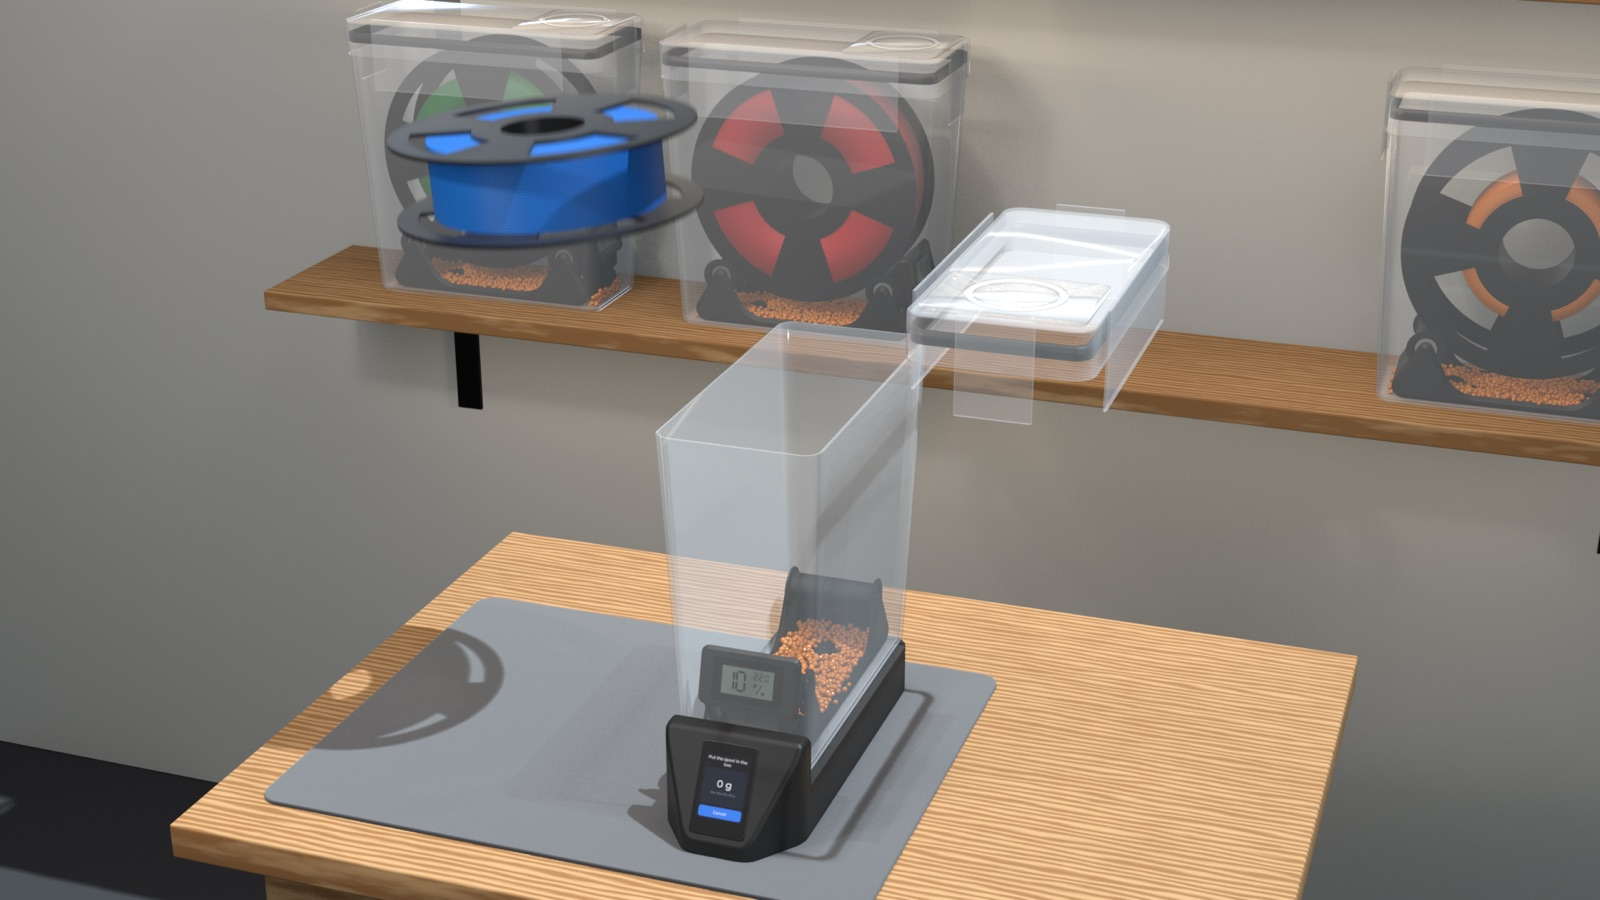
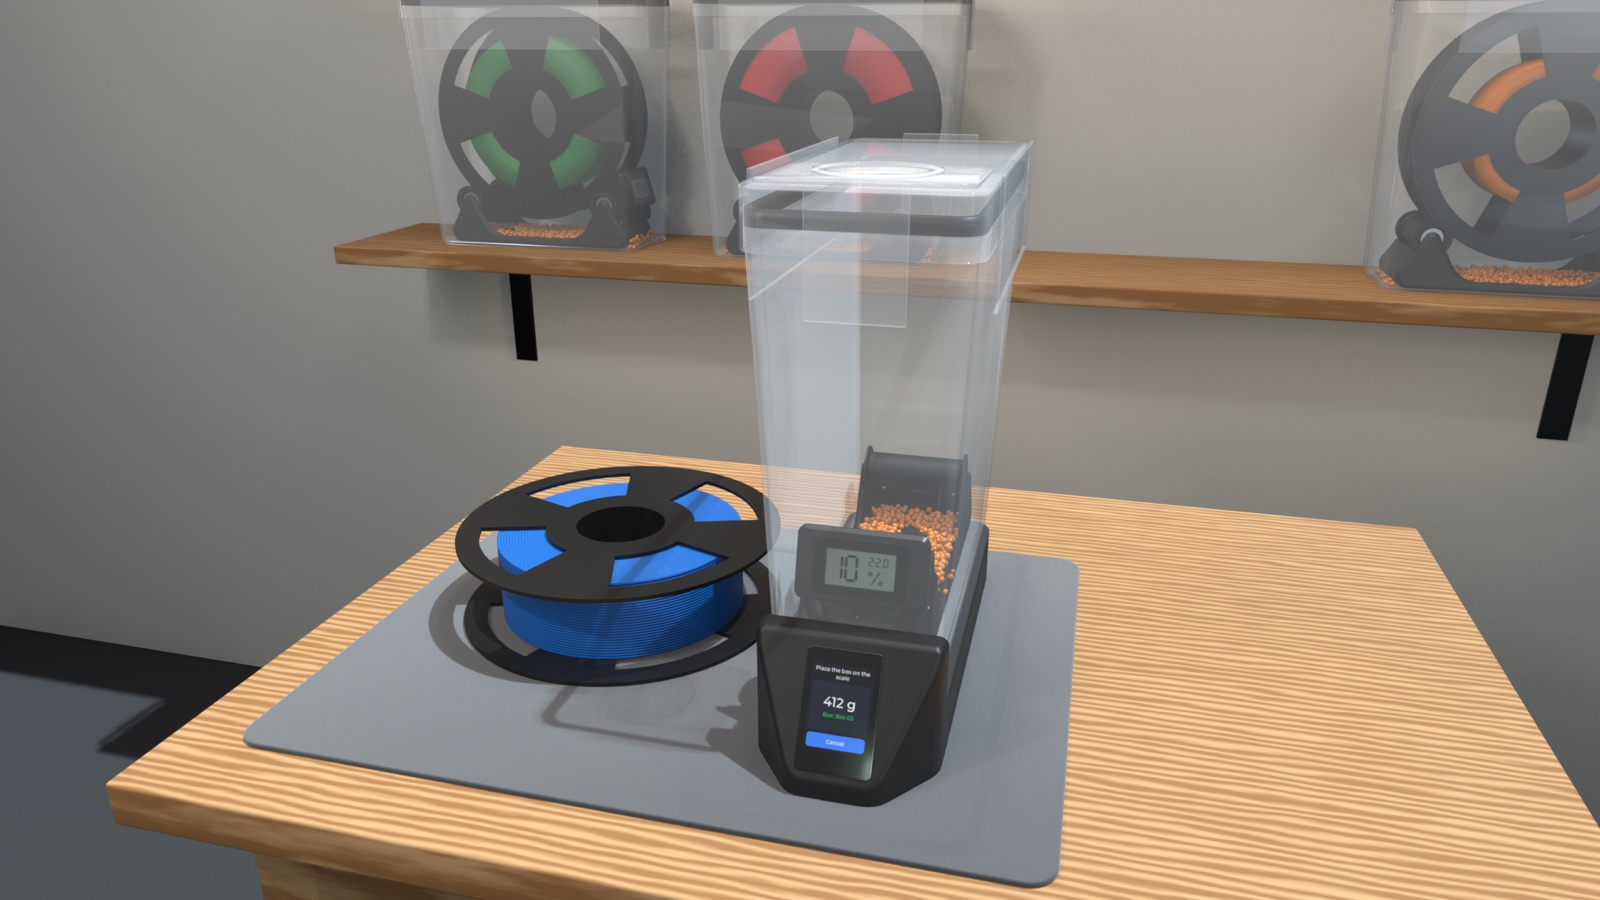
Bauen-Seite: Bild aus eigener Blender-Ansicht

diff --git a/docs/index.html b/docs/index.html
@@ -177,7 +177,7 @@
 <!-- RENDERS -->
 <section>
   <div class="two">
-    <img src="img/render-front.jpg" alt="Scale in front of the filament shelf" loading="lazy">
+    <img src="img/render-room.jpg" alt="Scale in front of the filament shelf" loading="lazy">
     <img src="img/render-menu.jpg" alt="Close-up of the touch display" loading="lazy">
   </div>
 </section>
